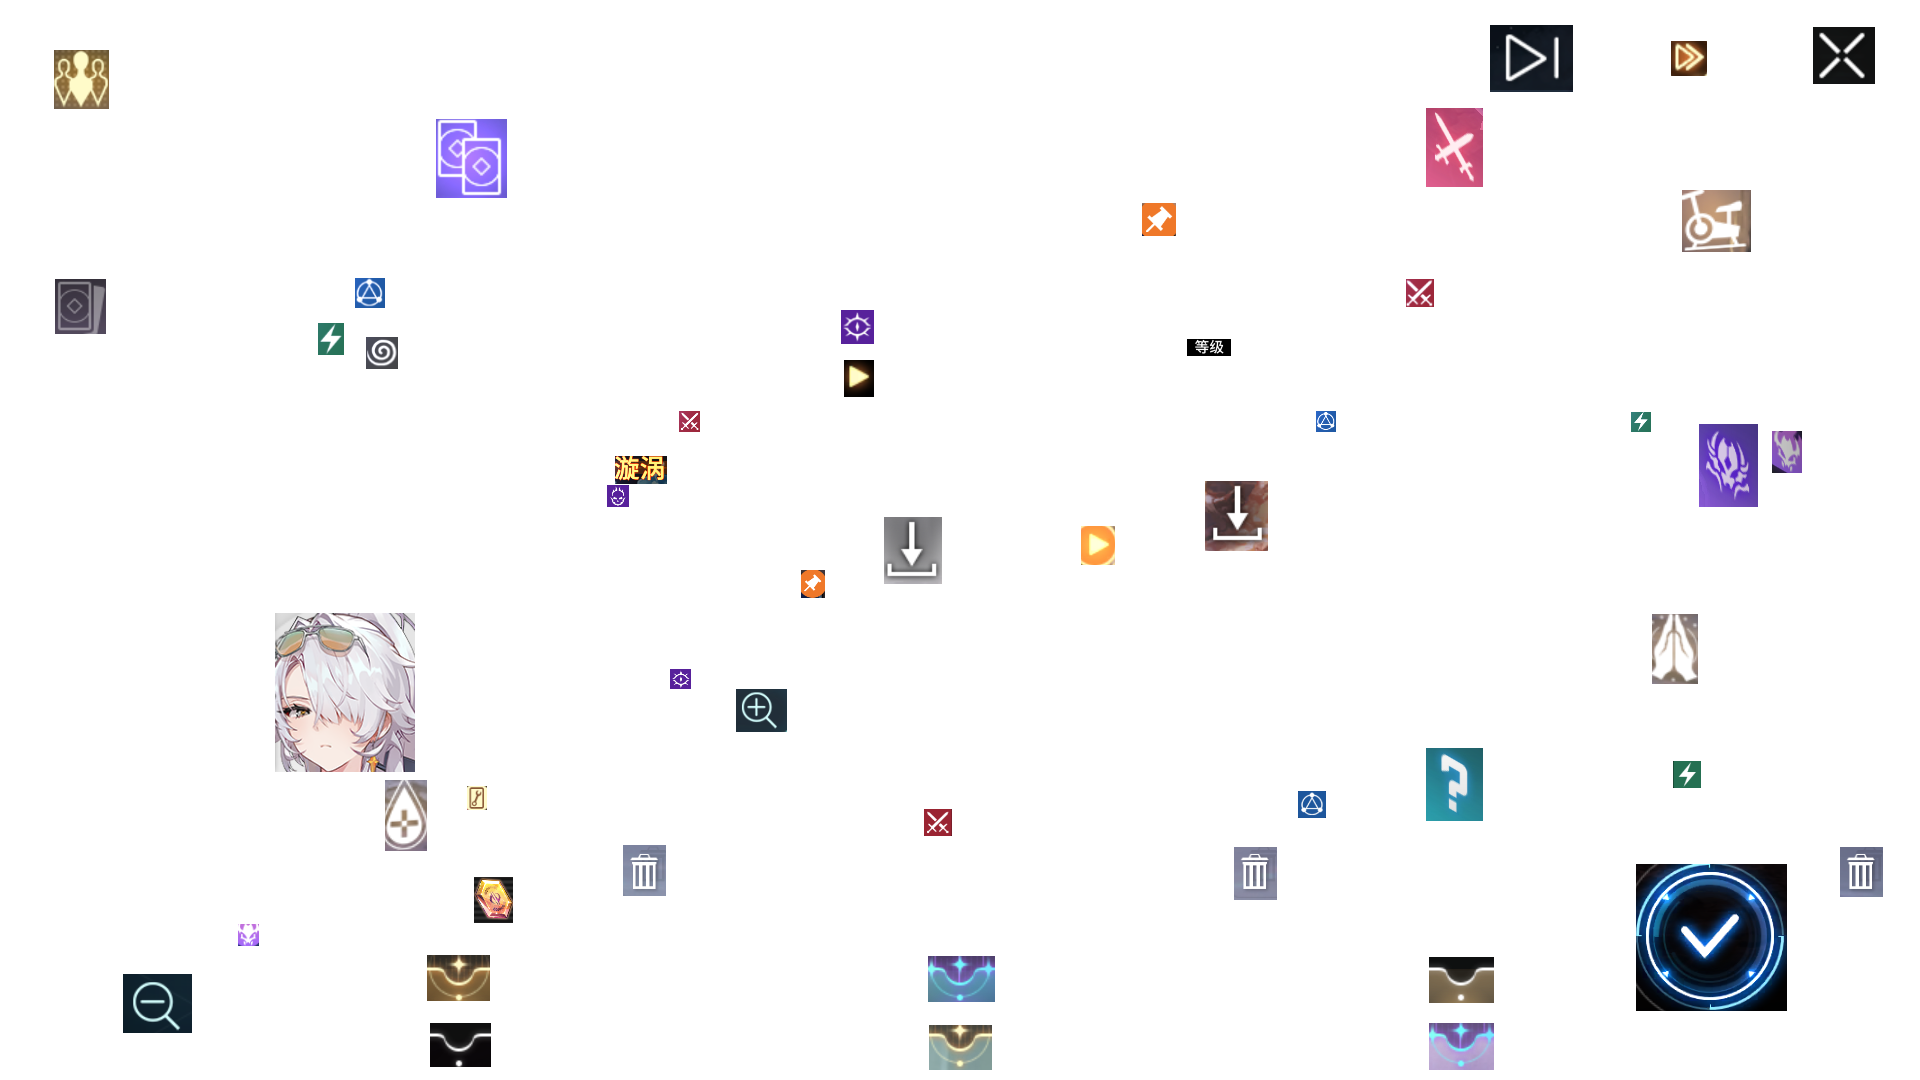
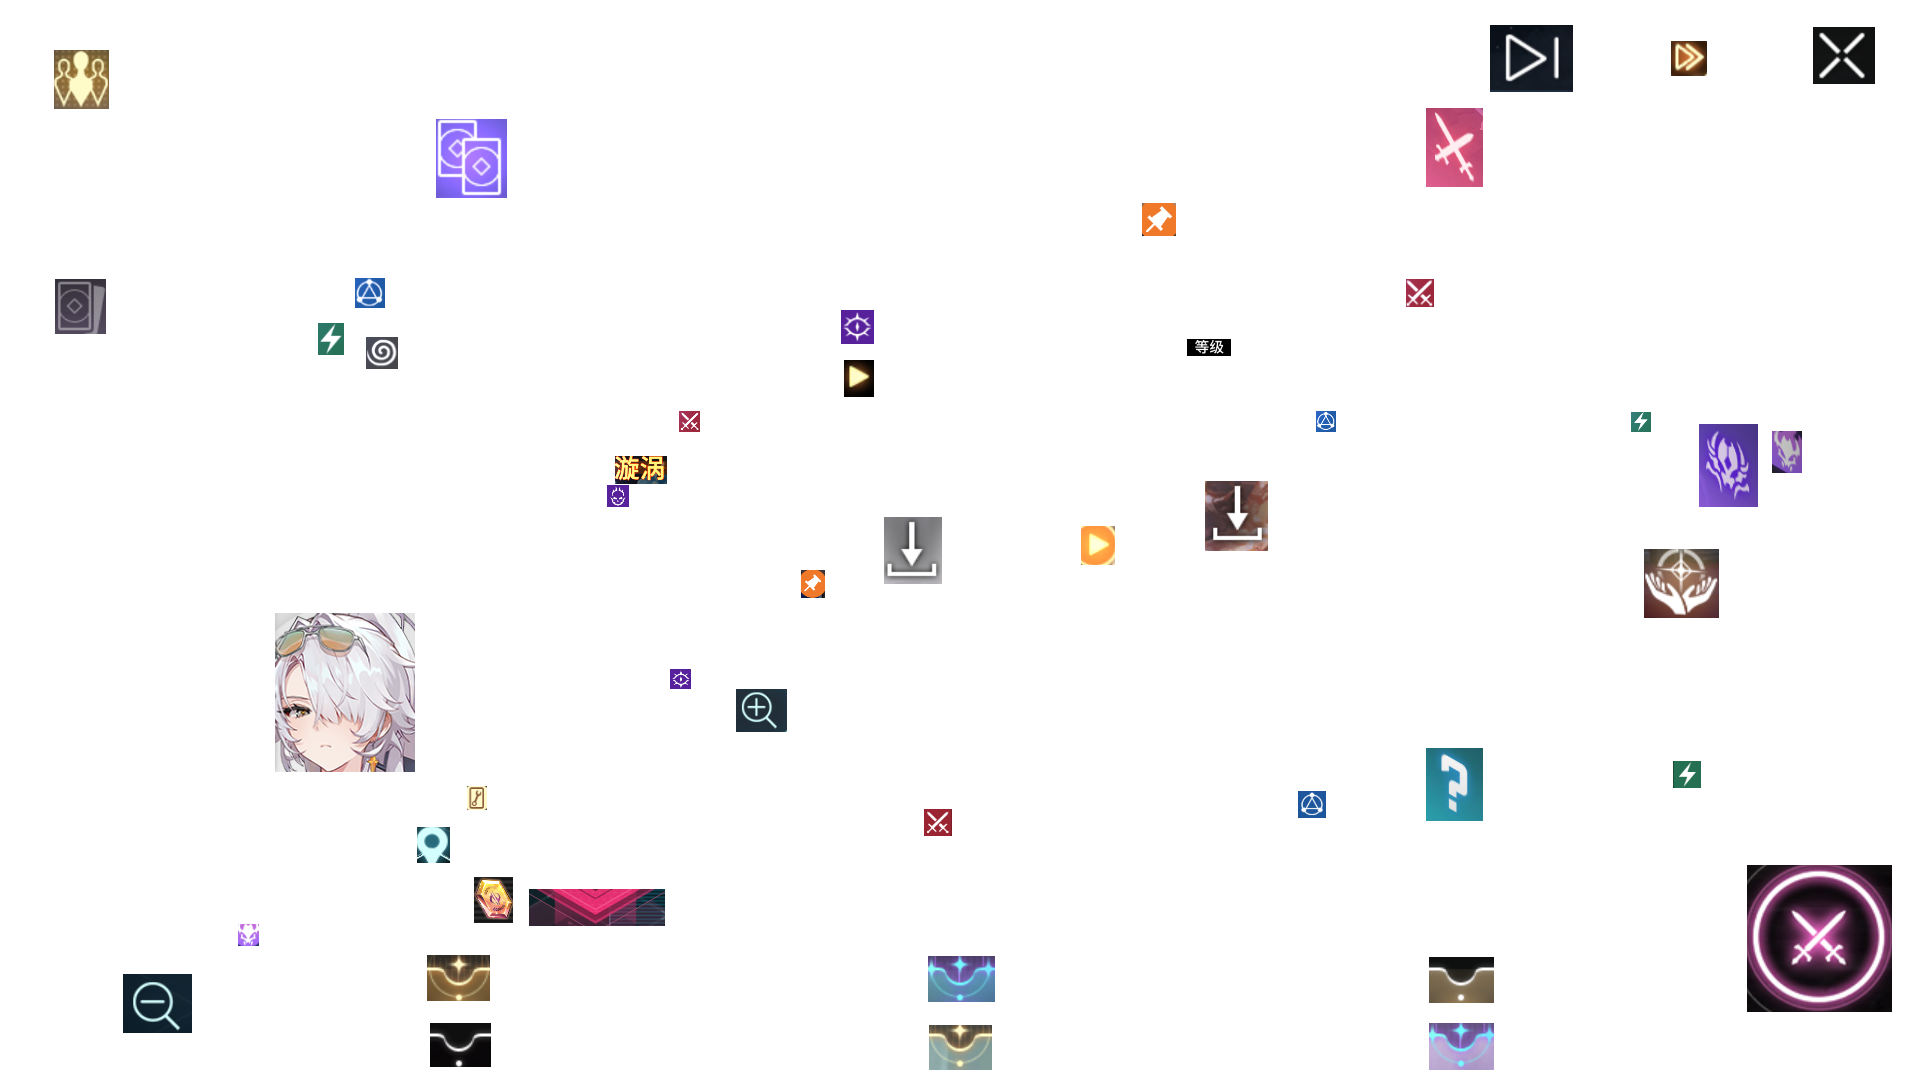
优化战斗任务页面处理

diff --git a/ok_tasks/utils_chaos.py b/ok_tasks/utils_chaos.py
@@ -318,6 +318,26 @@ def handle_battle_auto_check(task: TriggerTask):
     if not (box and re.search(r'\d+/10', box.name)):
         return False
 
+    attack_region = (0.394, 0.779, 0.600, 0.858)
+    attack_box = next(
+        (
+            text_box for text_box in task.all_texts
+            if attack_region[0]
+            <= (text_box.x + text_box.width / 2) / task.width
+            <= attack_region[2]
+            and attack_region[1]
+            <= (text_box.y + text_box.height / 2) / task.height
+            <= attack_region[3]
+            and "发起攻击" in text_box.name
+        ),
+        None,
+    )
+    if attack_box:
+        task.log_info("战斗页面检测到发起攻击按钮，点击发起攻击")
+        task.click_box(attack_box)
+        task.sleep(1)
+        return True
+
     from ok.feature.Box import Box
     from ok.util.color import calculate_color_percentage
     auto_box = Box(

diff --git a/ok_tasks/utils.py b/ok_tasks/utils.py
@@ -2977,6 +2977,20 @@ def handle_event_task(task: TriggerTask):
     if not tasks_info:
         return False
 
+    attack_event_features = task.find_feature(feature_name="attack_event") or []
+    if attack_event_features:
+        attack_event = max(
+            attack_event_features,
+            key=lambda feature: feature.confidence,
+        )
+        task.log_info(
+            f"事件任务页面检测到attack_event特征，"
+            f"相似度={attack_event.confidence:.4f}，点击进入战斗任务"
+        )
+        task.click_box(attack_event)
+        task.sleep(1)
+        return True
+
     selectable_tasks = []
     for task_info in tasks_info:
         event_x = task_info["x"]
